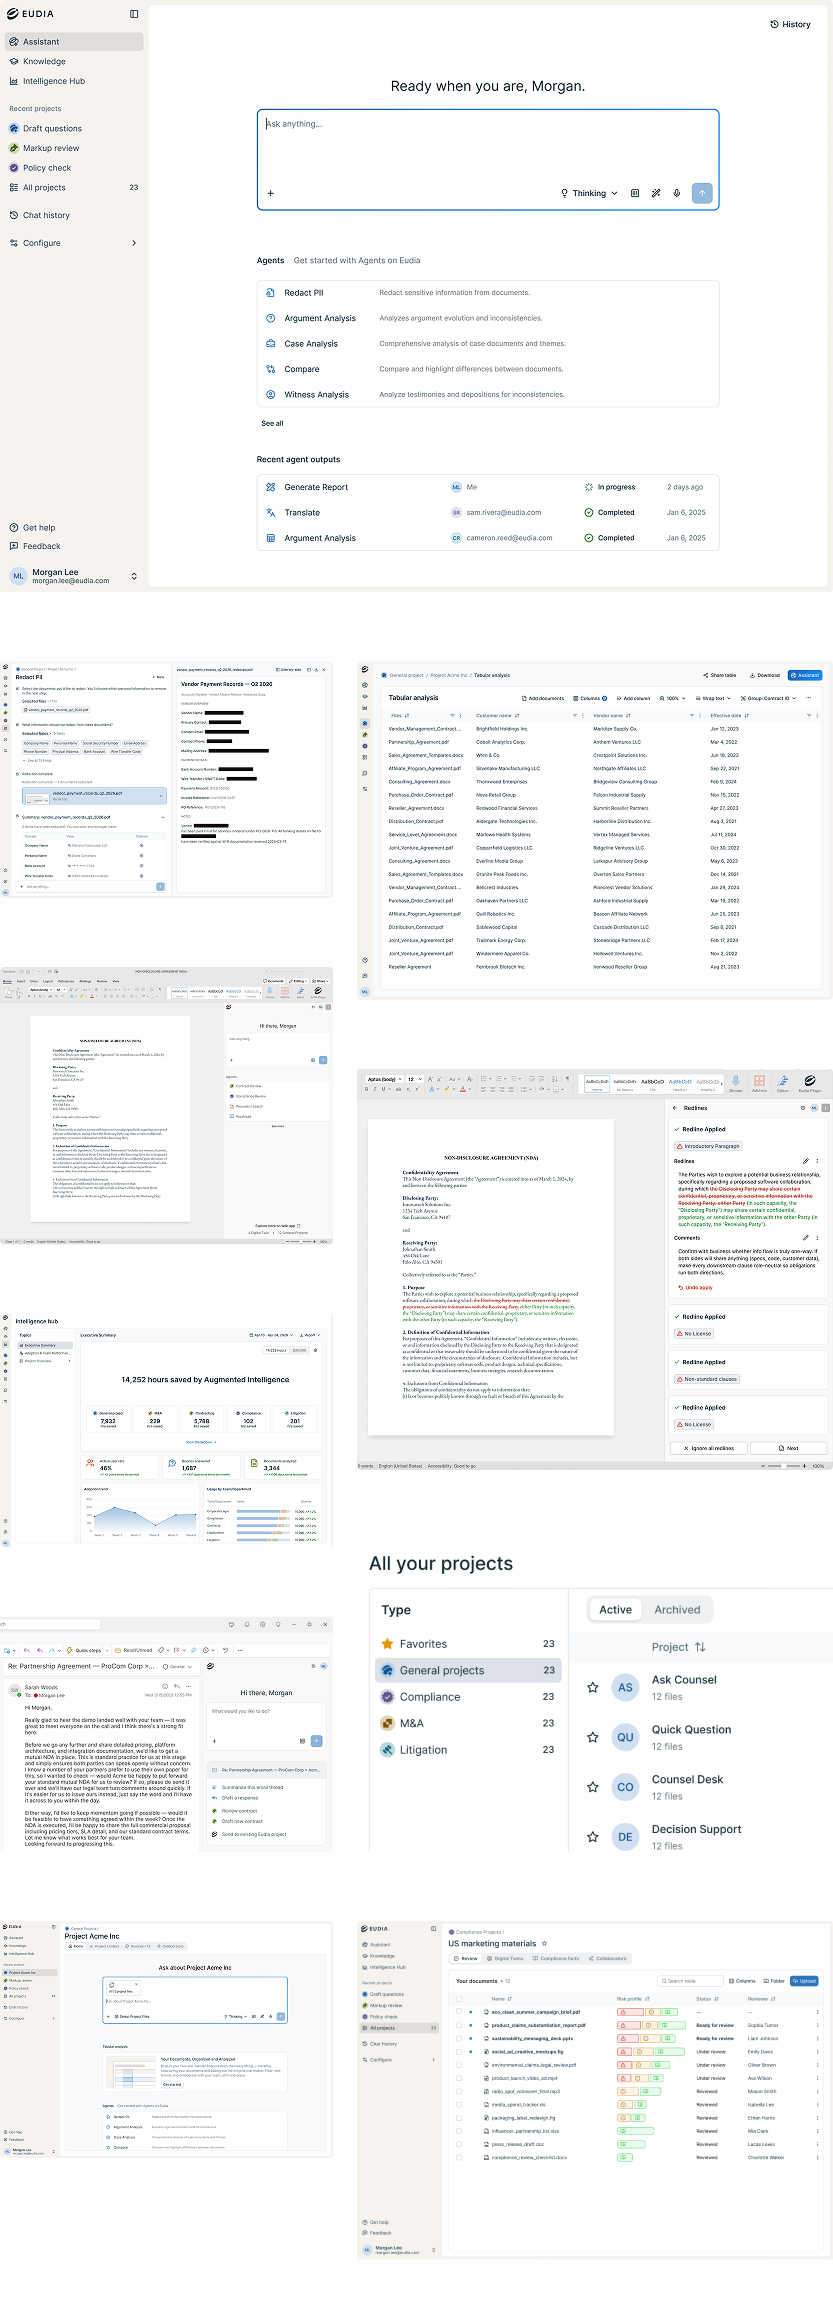
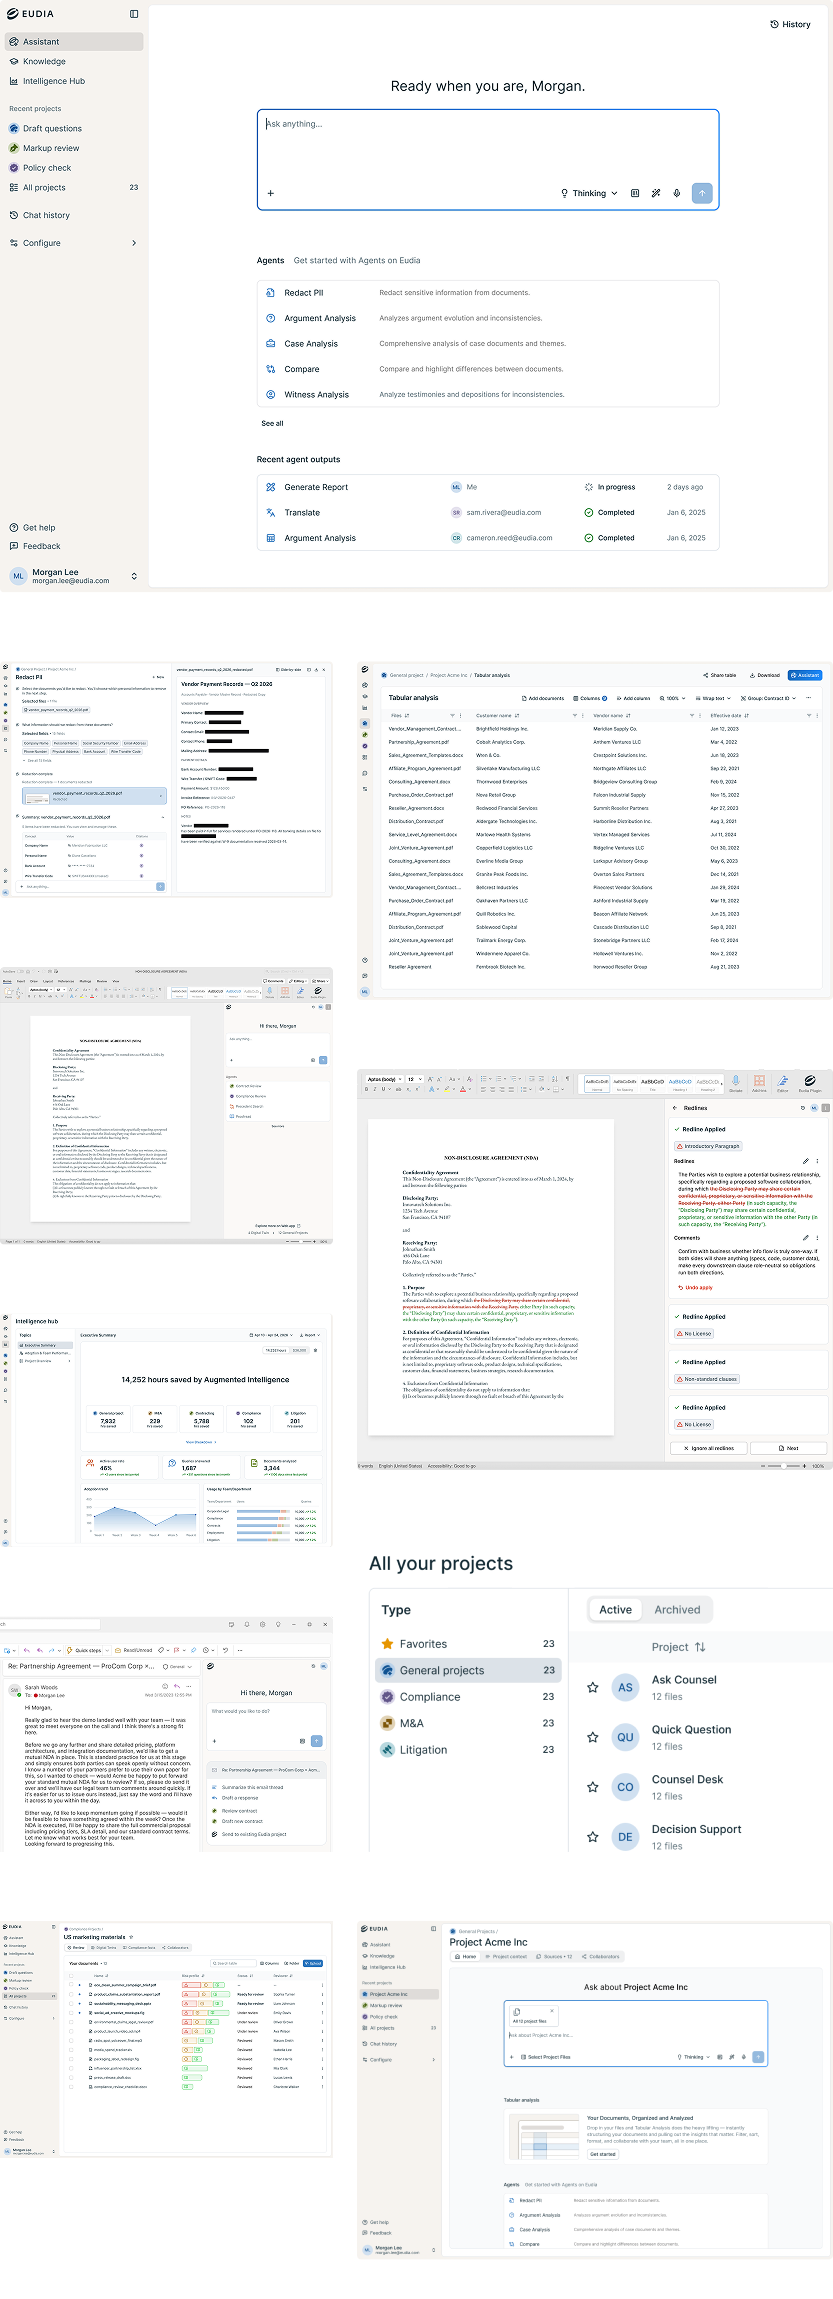
Adjust project card layout and Eudia artwork

diff --git a/css/styles.css b/css/styles.css
@@ -528,7 +528,7 @@ p {
     align-self: start;
     z-index: 10;
     width: 26%;
-    min-width: 250px;
+    min-width: 350px;
     flex-shrink: 0;
     box-sizing: border-box;
     position: sticky;
